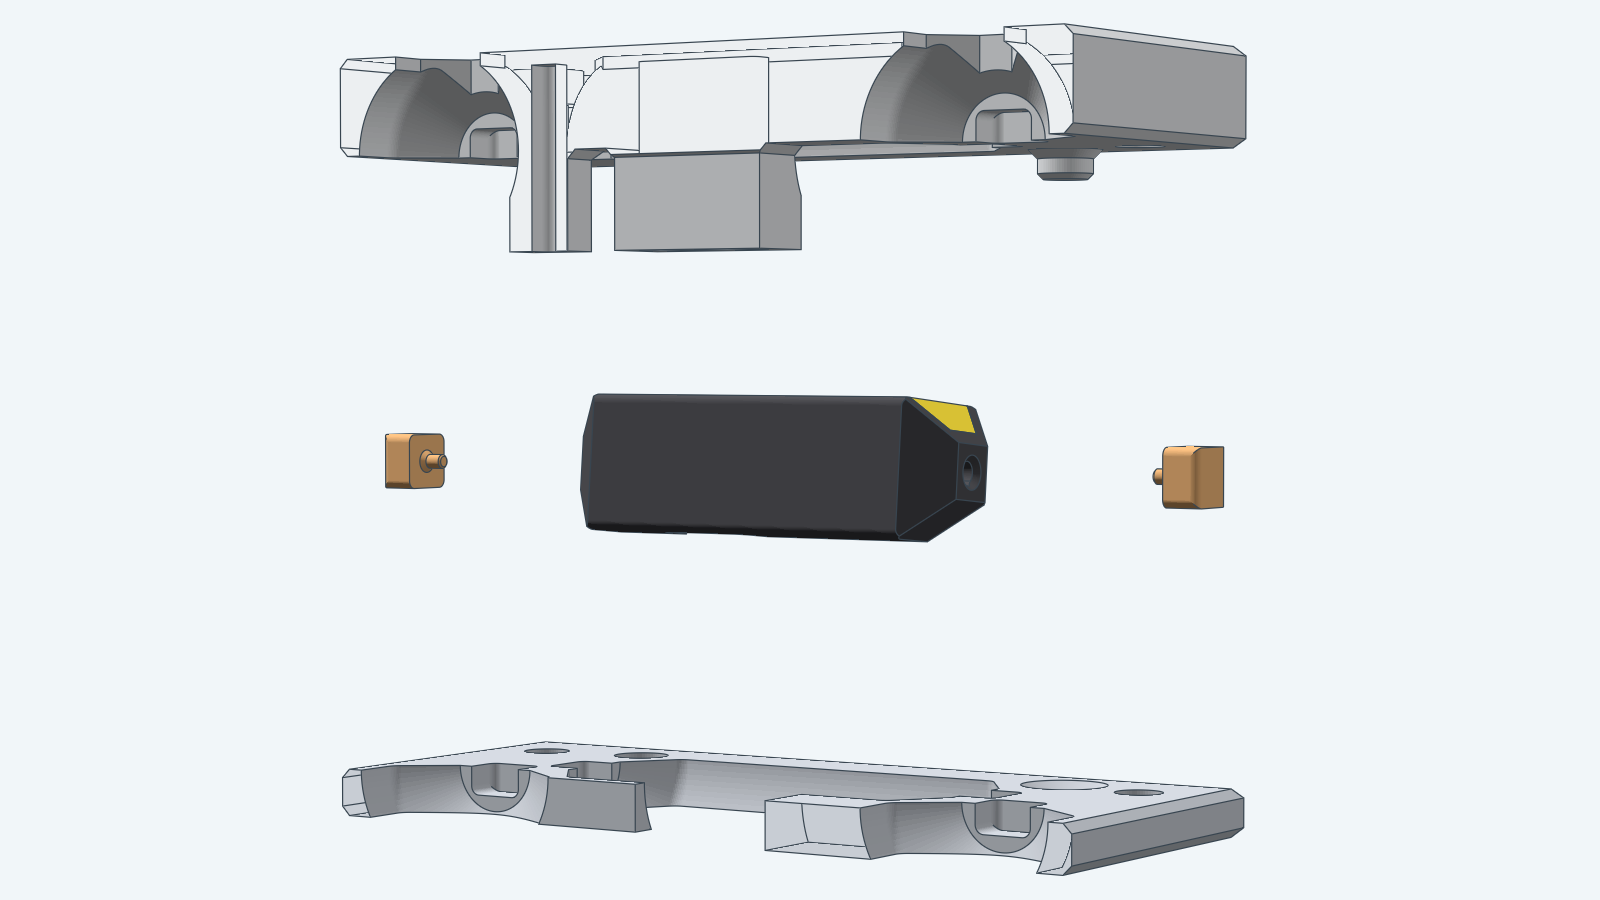
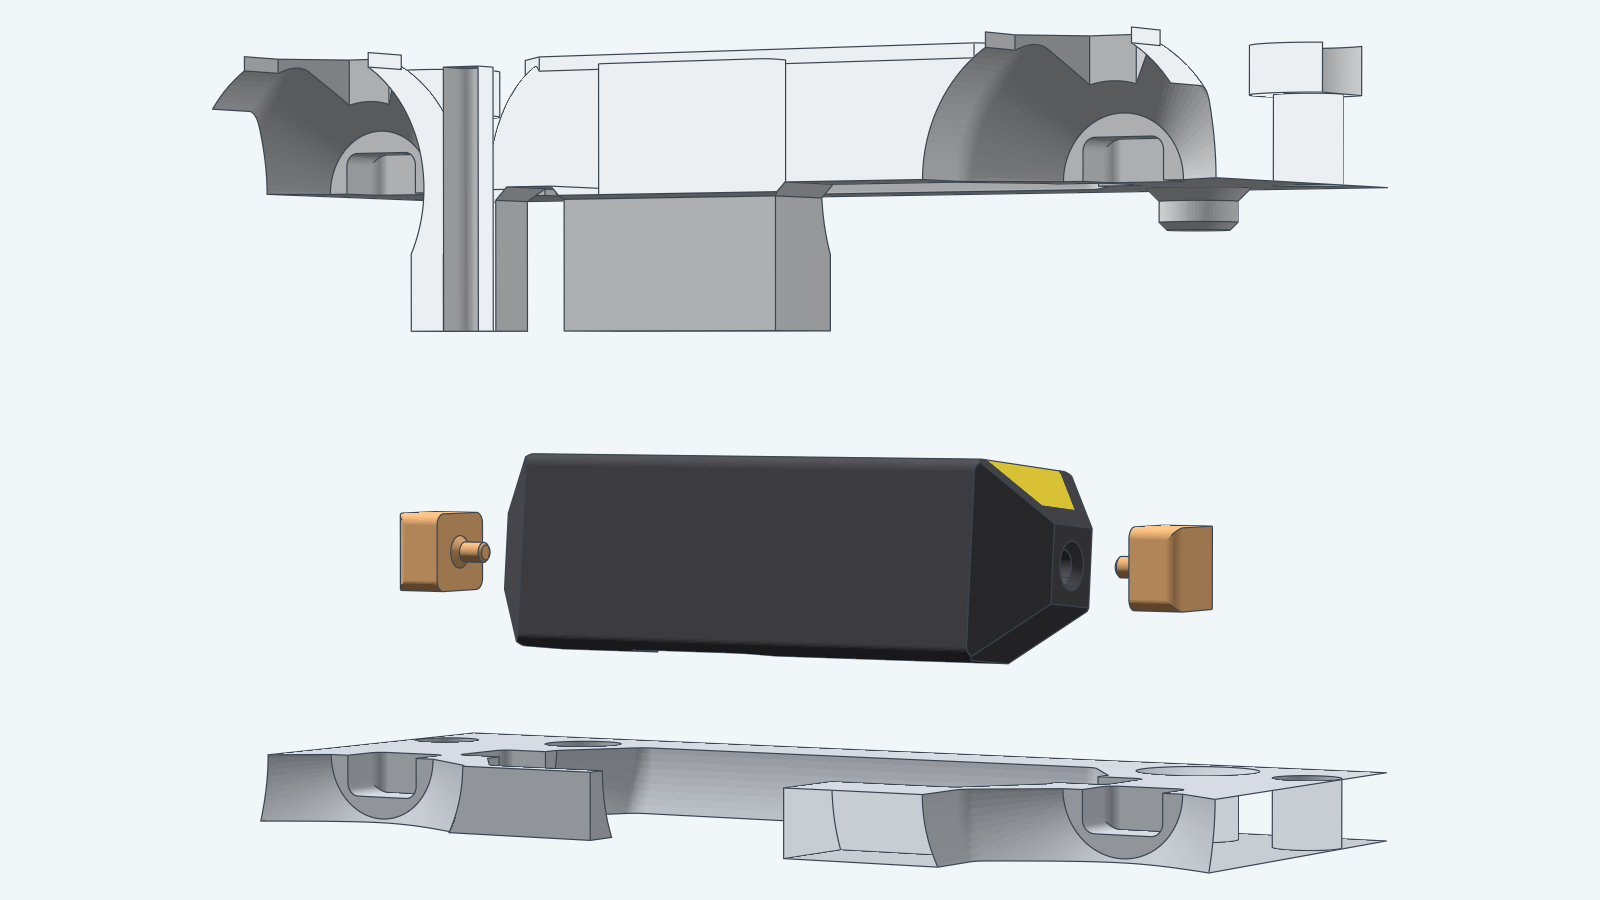
rework sevensegment pivot images (#449)

Changed region(s): [[0.125, 0.0311, 0.875, 0.3733], [0.2188, 0.4356, 0.7812, 0.7467], [0.1562, 0.8089, 0.875, 0.9956]]

diff --git a/models/sevensegment/render/sevensegment.go b/models/sevensegment/render/sevensegment.go
@@ -258,10 +258,10 @@ var sevenCameras = map[string]solidlens.Camera{
 	// Segment a's rotor axis runs along X at y = SegmentSpan. The exploded view looks at it from the front, a little to the
 	// right and level with the axis, so the plate halves pulled above and below show their seam faces; the section
 	// looks into the cut through the axis from -Y, at the +X end.
-	"exploded-pivot": {Position: solidlens.Vec{X: 120, Y: -150, Z: sevensegment.RotorAxisZ + 6},
+	"exploded-pivot": {Position: solidlens.Vec{X: 110, Y: -150, Z: sevensegment.RotorAxisZ + 4},
 		Target: solidlens.Vec{Y: sevensegment.SegmentSpan, Z: sevensegment.RotorAxisZ}, Up: solidlens.Vec{Z: 1}, FOV: 35},
-	"pivot-section": {Position: solidlens.Vec{X: 11, Y: -100, Z: sevensegment.RotorAxisZ},
-		Target: solidlens.Vec{X: 11, Y: sevensegment.SegmentSpan, Z: sevensegment.RotorAxisZ}, Up: solidlens.Vec{Z: 1}, FOV: 5.5},
+	"pivot-section": {Position: solidlens.Vec{X: 12.6, Y: -100, Z: sevensegment.RotorAxisZ + .7},
+		Target: solidlens.Vec{X: 12.6, Y: sevensegment.SegmentSpan, Z: sevensegment.RotorAxisZ + .7}, Up: solidlens.Vec{Z: 1}, FOV: 4},
 }
 
 var (
@@ -339,79 +339,100 @@ func sevenSegmentView(s partSet, name string) (solidlens.Scene, error) {
 }
 
 // sevenPivotExplode is each part's offset in the pivot exploded view of segment a: the cradle plate down, the top plate
-// up, the slider farther down, and the two blocks out along the rotor axis, level with the rotor.
+// up, and each block 3 mm out along the rotor axis, which frees its pin from the bore and leaves the block level with its own
+// pocket.
 var sevenPivotExplode = map[string]r3.Vec{
-	"Cradle Plate": {Z: -17}, "Top Plate": {Z: 17},
-	"Pivot Block a -u": {X: -12}, "Pivot Block a +u": {X: 12},
+	"Cradle Plate": {Z: -8}, "Top Plate": {Z: 14},
+	"Pivot Block a -u": {X: -3}, "Pivot Block a +u": {X: 3},
 }
 
-// sevenPivotParts lists the parts of the pivot views, from segment a: its rotor, blocks and slider, and the plate halves.
+// sevenPivotParts lists the parts of the pivot views, from segment a: its rotor, blocks and the plate halves.
 var sevenPivotParts = []string{"Flag a Yellow", "Flag a Black", "Pivot Block a -u", "Pivot Block a +u",
 	"Cradle Plate", "Top Plate"}
 
-// sevenFitMesh reports only the vertices of a part that keep returns true for, so that FitCamera frames a part as
-// cut by a clip plane.
-type sevenFitMesh struct {
+// sevenShrunk draws a mesh scaled by factor about the centre of its bounds.
+type sevenShrunk struct {
 	solidlens.TriangleSource
-	keep func(r3.Vec) bool
+	centre r3.Vec
+	factor float64
 }
 
-func (m sevenFitMesh) Vertices() []r3.Vec {
-	var out []r3.Vec
-	for _, v := range m.TriangleSource.Vertices() {
-		if m.keep(v) {
-			out = append(out, v)
-		}
+func (m sevenShrunk) Vertices() []r3.Vec {
+	source := m.TriangleSource.Vertices()
+	out := make([]r3.Vec, len(source))
+	for i, v := range source {
+		out[i] = m.centre.Add(v.Sub(m.centre).Scale(m.factor))
 	}
 	return out
 }
 
-// sevenPivotView draws segment a's rotor end and its pivot block with the two plate halves that hold the block.
-// Exploded pulls the parts apart, the plates cut to a strip of 22 mm round the rotor so the pockets show large;
-// otherwise every part is cut by the plane through the rotor axis, the -Y half removed, and the camera looks into the cut.
+// sevenPivotView draws segment a's rotor end and its pivot blocks with the two plate halves that hold them.
+//
+// The plates are cut to a block 42 mm long, 18 mm deep and about 10 mm high round the rotor so the pockets show large. Exploded pulls the parts
+// apart; pivot-section instead cuts every part by the plane through the rotor axis, the -Y half removed, and looks into
+// the cut. Every cut is made on the mesh (solidlens.ClipMesh) and the inside is drawn in the part's own color.
+//
+// The yellow body of a rotor shares its faces with the black body. Where the camera looks through the cut, the yellow
+// body's back face and the black body's front face lie in the same place and fight for the pixel (speckle). The section
+// scales the yellow body down by 0.5 % about its centre, which leaves the shared face 0.03 mm clear on the yellow side,
+// so the cut faces of both bodies win cleanly.
 func sevenPivotView(s partSet, name string) (solidlens.Scene, error) {
-	var set partSet
-	for _, p := range s {
-		for _, want := range sevenPivotParts {
-			if p.name == want {
-				set = append(set, p)
-			}
-		}
-	}
-	var models, fit []solidlens.Model
 	axisY := sevensegment.SegmentSpan
-	for _, p := range set {
+	exploded := name == "exploded-pivot"
+	var models []solidlens.Model
+	for _, p := range s {
+		found := false
+		for _, want := range sevenPivotParts {
+			found = found || p.name == want
+		}
+		if !found {
+			continue
+		}
 		var src solidlens.TriangleSource = p.mesh
-		var clip *solidlens.ClipPlane
-		if name == "exploded-pivot" {
+		var planes []solidlens.ClipPlane
+		if exploded {
 			move, err := r3.Translation(sevenPivotExplode[p.name])
 			if err != nil {
 				return solidlens.Scene{}, err
 			}
 			src = renderkit.TransformedMesh{TriangleSource: src, Transform: move}
 			if p.name == "Cradle Plate" || p.name == "Top Plate" {
-				clip = sevenCut(solidlens.ClipPlane{Origin: solidlens.Vec{Y: axisY - 9}, Normal: solidlens.Vec{Y: -1}}, p.color)
+				// Each plate keeps 4.5 mm of its thickness beyond the pocket's floor or roof.
+				z, normal := sevensegment.RotorAxisZ+sevenPivotExplode[p.name].Z-4.5, -1.0
+				if p.name == "Top Plate" {
+					z, normal = sevensegment.RotorAxisZ+sevenPivotExplode[p.name].Z+5.5, 1
+				}
+				planes = []solidlens.ClipPlane{
+					{Origin: solidlens.Vec{Y: axisY - 9}, Normal: solidlens.Vec{Y: -1}},
+					{Origin: solidlens.Vec{Y: axisY + 9}, Normal: solidlens.Vec{Y: 1}},
+					{Origin: solidlens.Vec{X: -21}, Normal: solidlens.Vec{X: -1}},
+					{Origin: solidlens.Vec{X: 21}, Normal: solidlens.Vec{X: 1}},
+					{Origin: solidlens.Vec{Z: z}, Normal: solidlens.Vec{Z: normal}},
+				}
 			}
 		} else {
-			clip = sevenCut(solidlens.ClipPlane{Origin: solidlens.Vec{Y: axisY}, Normal: solidlens.Vec{Y: -1}}, p.color)
+			if p.name == "Flag a Yellow" {
+				low, high := renderkit.MeshBounds(p.mesh)
+				src = sevenShrunk{TriangleSource: src, centre: low.Add(high).Scale(.5), factor: .995}
+			}
+			planes = []solidlens.ClipPlane{{Origin: solidlens.Vec{Y: axisY}, Normal: solidlens.Vec{Y: -1}}}
+		}
+		for _, plane := range planes {
+			clipped, err := solidlens.ClipMesh(src, plane)
+			if err != nil {
+				return solidlens.Scene{}, fmt.Errorf("%s: %w", p.name, err)
+			}
+			src = clipped
 		}
 		m := renderkit.PartModel(src, p.color)
-		m.Clip = clip
+		m.BackMaterial = &solidlens.Material{Color: p.color, Unlit: true}
 		models = append(models, m)
-		if clip == nil {
-			fit = append(fit, m)
-			continue
-		}
-		keepY := clip.Origin.Y
-		fm := m
-		fm.Mesh = sevenFitMesh{TriangleSource: src, keep: func(v r3.Vec) bool { return float64(v.Y) >= keepY }}
-		fit = append(fit, fm)
 	}
 	camera := sevenCameras[name]
-	if name == "pivot-section" {
+	if !exploded {
 		return renderkit.Scene(camera, models), nil
 	}
-	return renderkit.Scene(renderkit.FitCamera(camera, fit, 16.0/9, .03), models), nil
+	return renderkit.Scene(renderkit.FitCamera(camera, models, 16.0/9, .03), models), nil
 }
 
 // sevenFaceBolt reports whether name is one of the four top-plate bolts, whose heads lie flush in the face.

diff --git a/models/sevensegment/README.md b/models/sevensegment/README.md
@@ -65,7 +65,7 @@ cradle plate and the top plate splits: the pocket's floor lies 1.6 mm under the 
 over the seam in the top plate. The view below is a cut through rotor a's axis at its +x end, with every part
 in its own color and the cut faces in the same colors. The block (orange) fills its pocket between the cradle plate
 (below the seam) and the top plate (above it). The pin runs left into the bore, with the 0.20 mm gap above and below it
-and the 0.25 mm end gap between the block's face and the rotor's end:
+and the 0.25 mm end gap between the block's face and the rotor's end. The rotor is on the left, its yellow face on top:
 
 ![Rotor a's +x end cut through its axis: the orange pivot block in its pocket between the cradle plate and the top plate, its pin in the rotor's end bore with a 0.20 mm gap round it and a 0.25 mm gap at the rotor's end](images/pivot-section.png)
 
@@ -105,11 +105,12 @@ The seven cams from behind, a to d on the top row and e to g below, each with it
 
 ![The display taken apart. In the middle the camshaft with its seven cams between the open walls; the front wall, the housing, the button, the rotor, the spring and the hub slid out toward the front along the shaft, and the front bearing dropped below the shaft; the rear wall and its bearing to the back. Above the shaft the guide plate with its two columns, the cradle plate, the seven rotors spread out around the face with their yellow faces up, each with two small orange pivot blocks slid out past its ends along its axis, and the top plate with its four bolts highest. The seven black sliders stand clear on both sides: e and f, one above the other, on the left, and a, g and d on the right, with b and c near the rear wall. Nuts and the remaining bolts beside the parts they hold](images/exploded.png)
 
-The pivot of rotor a taken apart: the rotor in the middle with its two pivot blocks slid out along its axis, the pins
-facing the rotor's end bores, the cradle plate pulled down and the top plate pulled up so that the seam faces and the
-halves of the pockets show. The plates are cut to a strip around the rotor; the sliders and the other rotors are left out:
+The pivot of rotor a taken apart: the rotor in the middle, an orange pivot block 3 mm out of each end along its axis, so
+each pin is free of its end bore and each block stands level with its own pocket. The cradle plate is pulled down and the
+top plate up, so the lower and upper halves of the pockets face the blocks. The plates are cut to a block round the
+rotor; the sliders and the other rotors are left out:
 
-![The pivot of rotor a: the black rotor with its yellow tip in the middle, an orange pivot block on each side with its pin toward the rotor's end bore, the top plate above with the upper halves of the pockets facing down, the cradle plate below with the lower halves facing up](images/exploded-pivot.png)
+![The pivot of rotor a: the black rotor with a yellow tip in the middle, its end bore facing the orange pivot block on the right; an orange pivot block on each side with its pin toward the rotor, the top plate above with the upper halves of the pockets facing down, the cradle plate below with the lower halves facing up](images/exploded-pivot.png)
 
 The camshaft alone, with the frame left out, its parts pulled off the front end along the shaft. From the rear: the shaft, cam a, f, b, g, c, e and d, the hub, the spring and the rotor:
 
